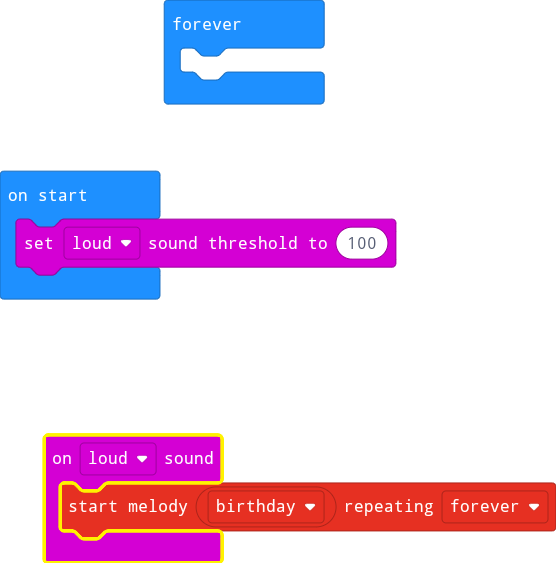
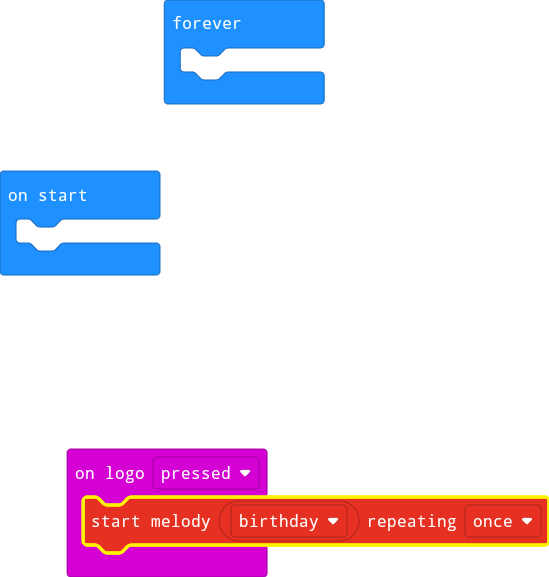
Update main.blocks, main.ts

Changed region(s): [[0.0619, 0.7549, 1.0, 1.0], [0.0, 0.2718, 0.7122, 0.5435], [0.2787, 0.0, 0.6193, 0.2114]]

diff --git a/main.ts b/main.ts
@@ -1,7 +1,6 @@
-input.onSound(DetectedSound.Loud, function () {
-    music.startMelody(music.builtInMelody(Melodies.Birthday), MelodyOptions.Forever)
+input.onLogoEvent(TouchButtonEvent.Pressed, function () {
+    music.startMelody(music.builtInMelody(Melodies.Birthday), MelodyOptions.Once)
 })
-input.setSoundThreshold(SoundThreshold.Loud, 100)
 basic.forever(function () {
 	
 })
